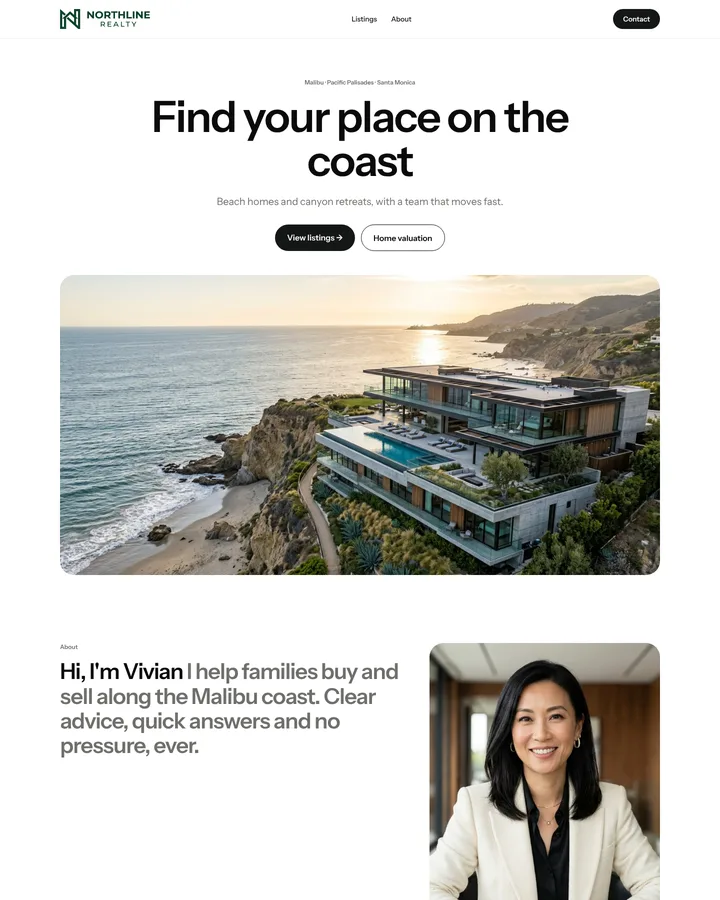
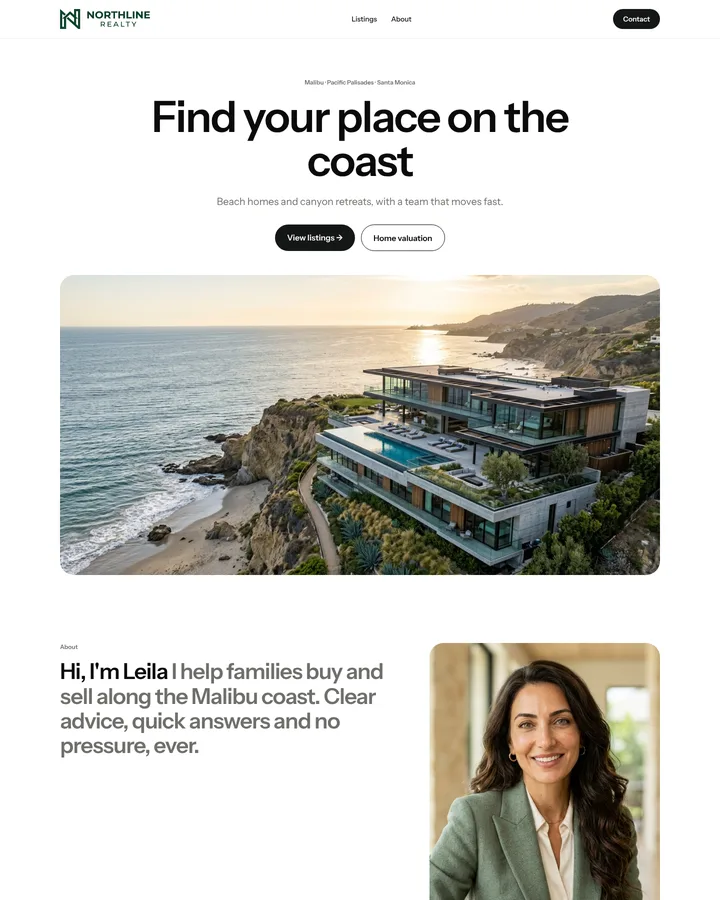
Rename Monument to Modern; new agent on the Bright preview
The Monument template now shows as "Modern" everywhere agents see it (its
internal id stays "monument"). The retired original Modern template is renamed
"Classic Modern" for the sites still using it. Bright's preview now features
Leila Haddad so no headshot repeats across templates.

Claude-Session: https://claude.ai/code/session_01CgDqwDWyiTyJ149RwNMbeZ

Changed region(s): [[0.5806, 0.7156, 0.9167, 1.0], [0.1833, 0.7156, 0.55, 0.7778]]

diff --git a/lib/templates.ts b/lib/templates.ts
@@ -23,7 +23,7 @@ export const TEMPLATES: Record<TemplateId, Template> = {
   modern: {
     id: "modern",
     hidden: true,
-    name: "Modern",
+    name: "Classic Modern",
     description: "Clean sans-serif, lots of white space, listings up front.",
     theme: { palette: "navy", fonts: "sans-modern", radius: "soft", heroStyle: "split", look: "classic" },
     allowedPalettes: ["navy", "ink", "forest", "midnight"],
@@ -51,7 +51,7 @@ export const TEMPLATES: Record<TemplateId, Template> = {
   },
   monument: {
     id: "monument",
-    name: "Monument",
+    name: "Modern",
     description: "Oversized type and an oxblood statement section; photos slide over each other as you scroll.",
     theme: { palette: "monument", fonts: "monument", radius: "none", heroStyle: "full-bleed", look: "monument" },
     allowedPalettes: ["monument", "monument-ink"],

diff --git a/components/marketing/HeroCarousel.tsx b/components/marketing/HeroCarousel.tsx
@@ -3,7 +3,7 @@ import { useEffect, useState } from "react";
 import { BRAND } from "./Brand";
 
 const SLIDES = [
-  { id: "monument", name: "Monument", domain: "vivianchohomes.com", prompt: "Put my Racquet Club listing first." },
+  { id: "monument", name: "Modern", domain: "vivianchohomes.com", prompt: "Put my Racquet Club listing first." },
   { id: "heritage", name: "Heritage", domain: "vantagepg.com", prompt: "Add our new Westlake listing at $7.45M." },
   { id: "riviera", name: "Riviera", domain: "casaandco.com", prompt: "Swap the hero for my Carmel road photo." },
   { id: "noir", name: "Noir", domain: "aureliaestates.com", prompt: "Mark Alpine Drive as sold." },

diff --git a/components/site/looks2.tsx b/components/site/looks2.tsx
@@ -5,7 +5,7 @@ import { HeroMedia, anchorFor, facts, heroHasMedia, listingItems, paragraphs, ty
 import { CountUp } from "./CountUp";
 
 /**
- * Monument (bold, inspired by editorial agency sites: oversized capitals, an
+ * Modern, internally "monument" (bold, inspired by editorial agency sites: oversized capitals, an
  * oxblood statement band, a pinned hero the page slides over, stacked listing
  * cards) and Heritage (quiet luxury: spaced capitals, navy and copper, photos
  * that drift as you scroll). Return null to fall back to the classic layout.
